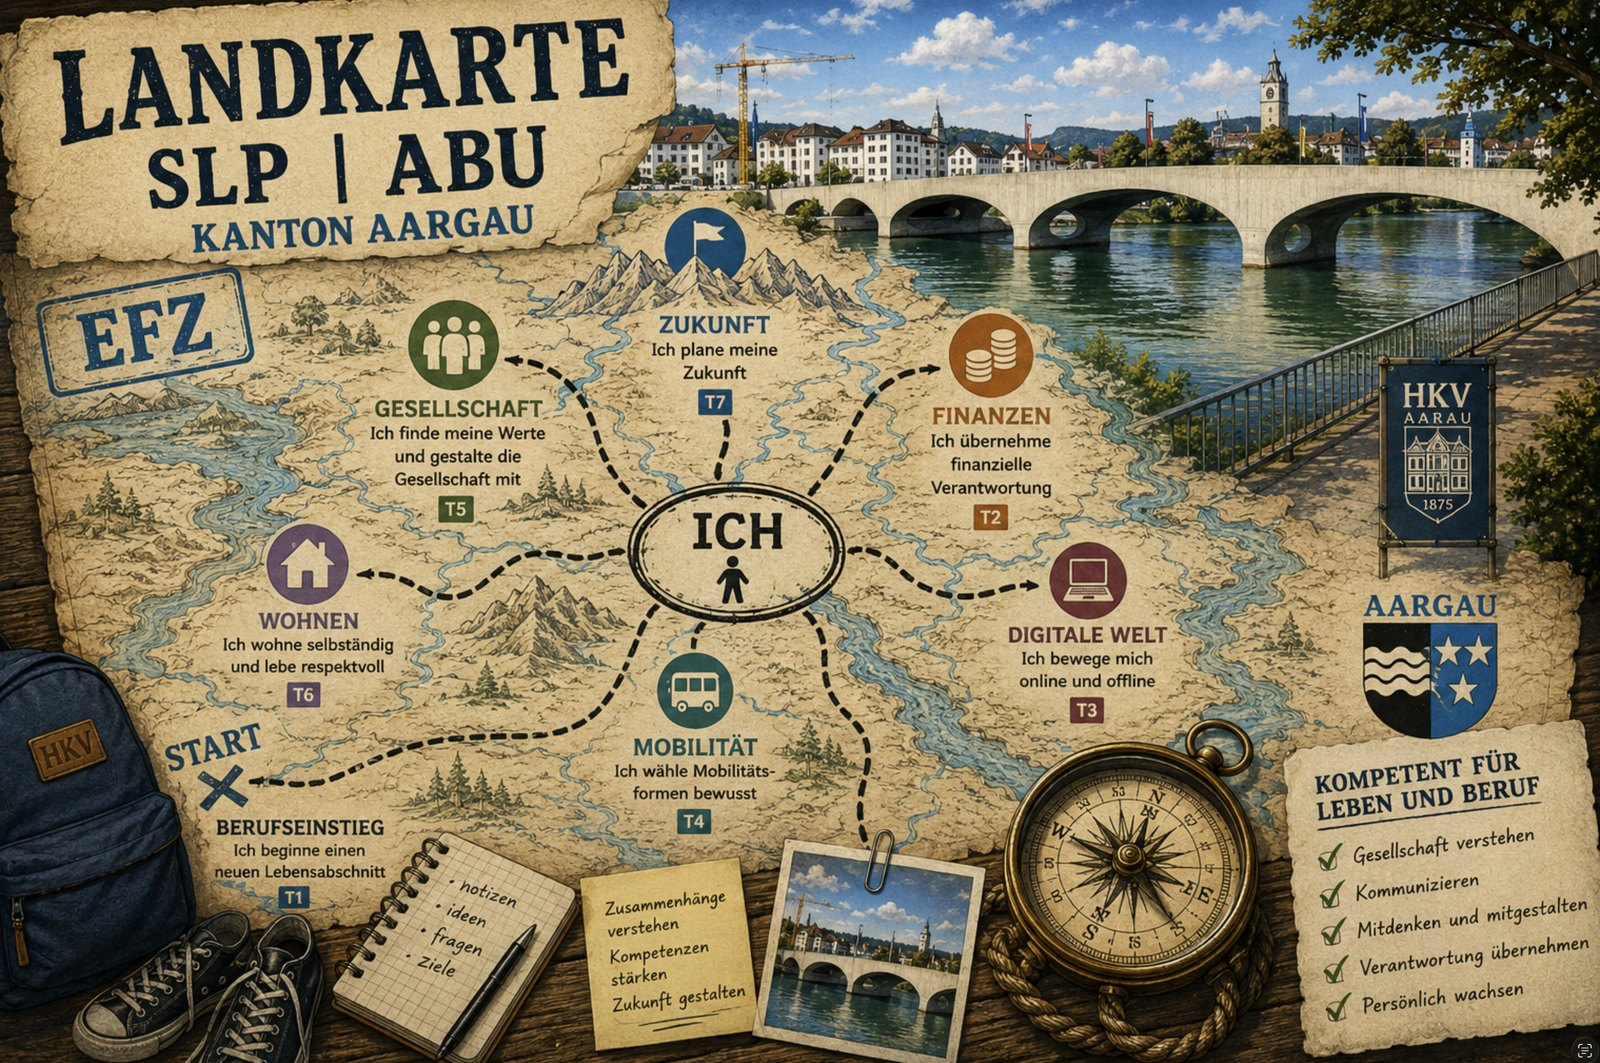
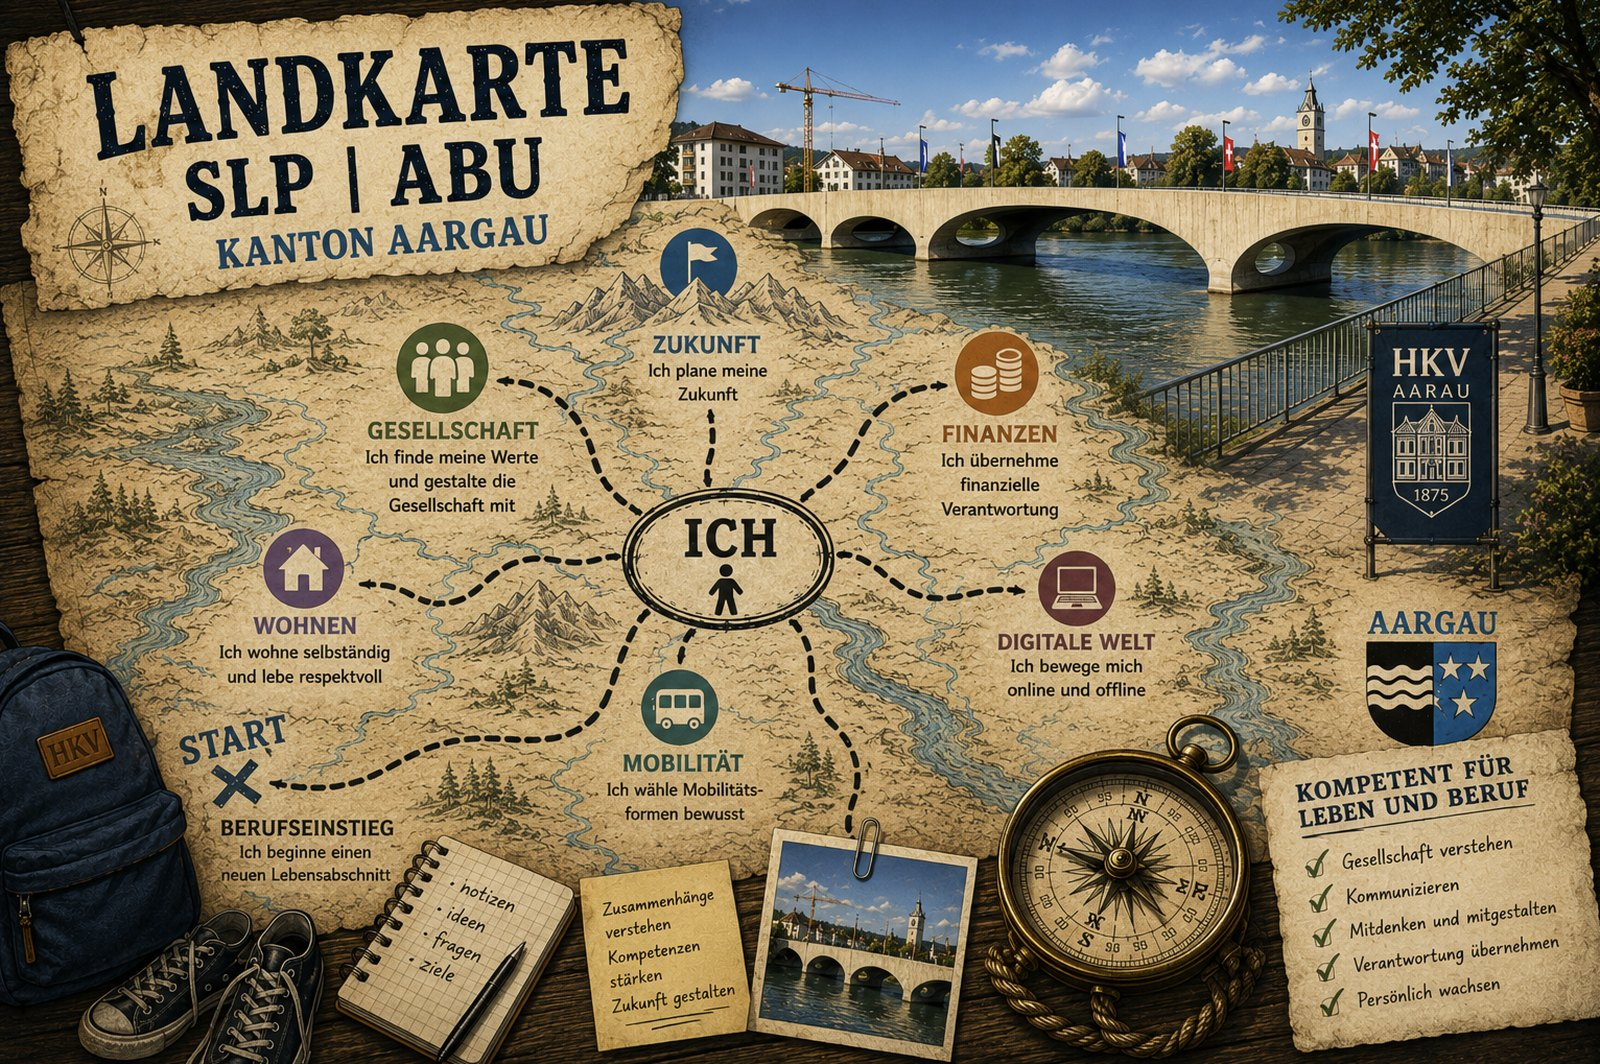
SLP-Karte final: Titelbild v3, Vollbild, Hydrant

diff --git a/slp_karte.html b/slp_karte.html
@@ -79,13 +79,19 @@
   .panel .asp{margin-bottom:6px;}
   .panel .asp b{font-size:.8rem;}
   .quelle{margin-top:12px; font-size:.7rem; color:#8a8574;}
+  .toast{
+    position:fixed; top:18px; left:50%; transform:translateX(-50%);
+    background:rgba(24,62,69,.93); color:#fff; padding:9px 22px; border-radius:99px;
+    font-size:.85rem; z-index:99; opacity:0; transition:opacity .35s; pointer-events:none;
+  }
+  .toast.zeig{opacity:1;}
 </style>
 </head>
 <body>
 <div class="hero-zone" id="heroZone">
   <div class="hero-halter">
     <div class="hero-rahmen" id="heroRahmen">
-      <img id="heroBild" src="slp_karte_titel.jpg?v=2" alt="Landkarte SLP ABU Kanton Aargau">
+      <img id="heroBild" src="slp_karte_titel.jpg?v=3" alt="Landkarte SLP ABU Kanton Aargau">
       <div class="hero-hinweis" id="heroHinweis">▼ scrollen</div>
     </div>
   </div>
@@ -99,11 +105,13 @@
   <button class="chipf" data-lj="1">1. Lehrjahr</button>
   <button class="chipf" data-lj="2">2. Lehrjahr</button>
   <button class="chipf" data-lj="3">3. Lehrjahr</button>
+  <button class="chipf" id="vollbild" type="button" title="Vollbild (Esc beendet)">⛶ Vollbild</button>
   <div class="lgd" id="legende"></div>
 </div>
 
 <div class="karte-wrap"><table id="karte"></table></div>
 
+<div class="toast" id="toast">Esc verlässt das Vollbild</div>
 <div class="panel" id="panel">
   <button class="zu" type="button" onclick="document.getElementById('panel').classList.remove('offen')">Schliessen ✕</button>
   <div id="panel-inhalt"></div>
@@ -198,6 +206,33 @@ document.querySelectorAll('.chipf').forEach(b=>{
     });
   });
 });
+
+/* ---- Vollbild mit Esc-Hinweis ---- */
+(function(){
+  const btn = document.getElementById('vollbild');
+  const toast = document.getElementById('toast');
+  if(!btn) return;
+  function drin(){ return !!(document.fullscreenElement || document.webkitFullscreenElement); }
+  btn.addEventListener('click', ()=>{
+    const el = document.documentElement;
+    if(drin()){
+      if(document.exitFullscreen) document.exitFullscreen();
+      else if(document.webkitExitFullscreen) document.webkitExitFullscreen();
+    } else {
+      if(el.requestFullscreen) el.requestFullscreen();
+      else if(el.webkitRequestFullscreen) el.webkitRequestFullscreen();
+    }
+  });
+  function wechsel(){
+    btn.textContent = drin() ? '🗗 Vollbild beenden' : '⛶ Vollbild';
+    if(drin() && toast){
+      toast.classList.add('zeig');
+      setTimeout(()=> toast.classList.remove('zeig'), 3500);
+    }
+  }
+  document.addEventListener('fullscreenchange', wechsel);
+  document.addEventListener('webkitfullscreenchange', wechsel);
+})();
 
 /* ---- Kino-Hero ---- */
 (function(){
